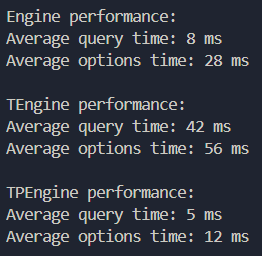
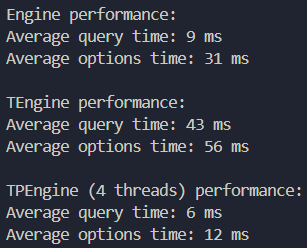
Added number of threads for the threadpool performance

Changed region(s): [[0.0, 0.7056, 0.9771, 0.9879], [0.0, 0.0282, 0.9466, 0.2823], [0.0, 0.3669, 0.9466, 0.6492]]

diff --git a/src/main.rs b/src/main.rs
@@ -124,7 +124,7 @@ fn tp_engine_performance(trie: &SearchTrie, query: &str, thread_count: usize) {
         avg_opt_time += opt_time;
     }
 
-    println!("\nTPEngine performance:");
+    println!("\nTPEngine ({} threads) performance:", thread_count);
     println!("Average query time: {:?} ms", avg_query_time / query_len);
     println!("Average options time: {:?} ms", avg_opt_time / query_len);
     stdout().flush().unwrap();
